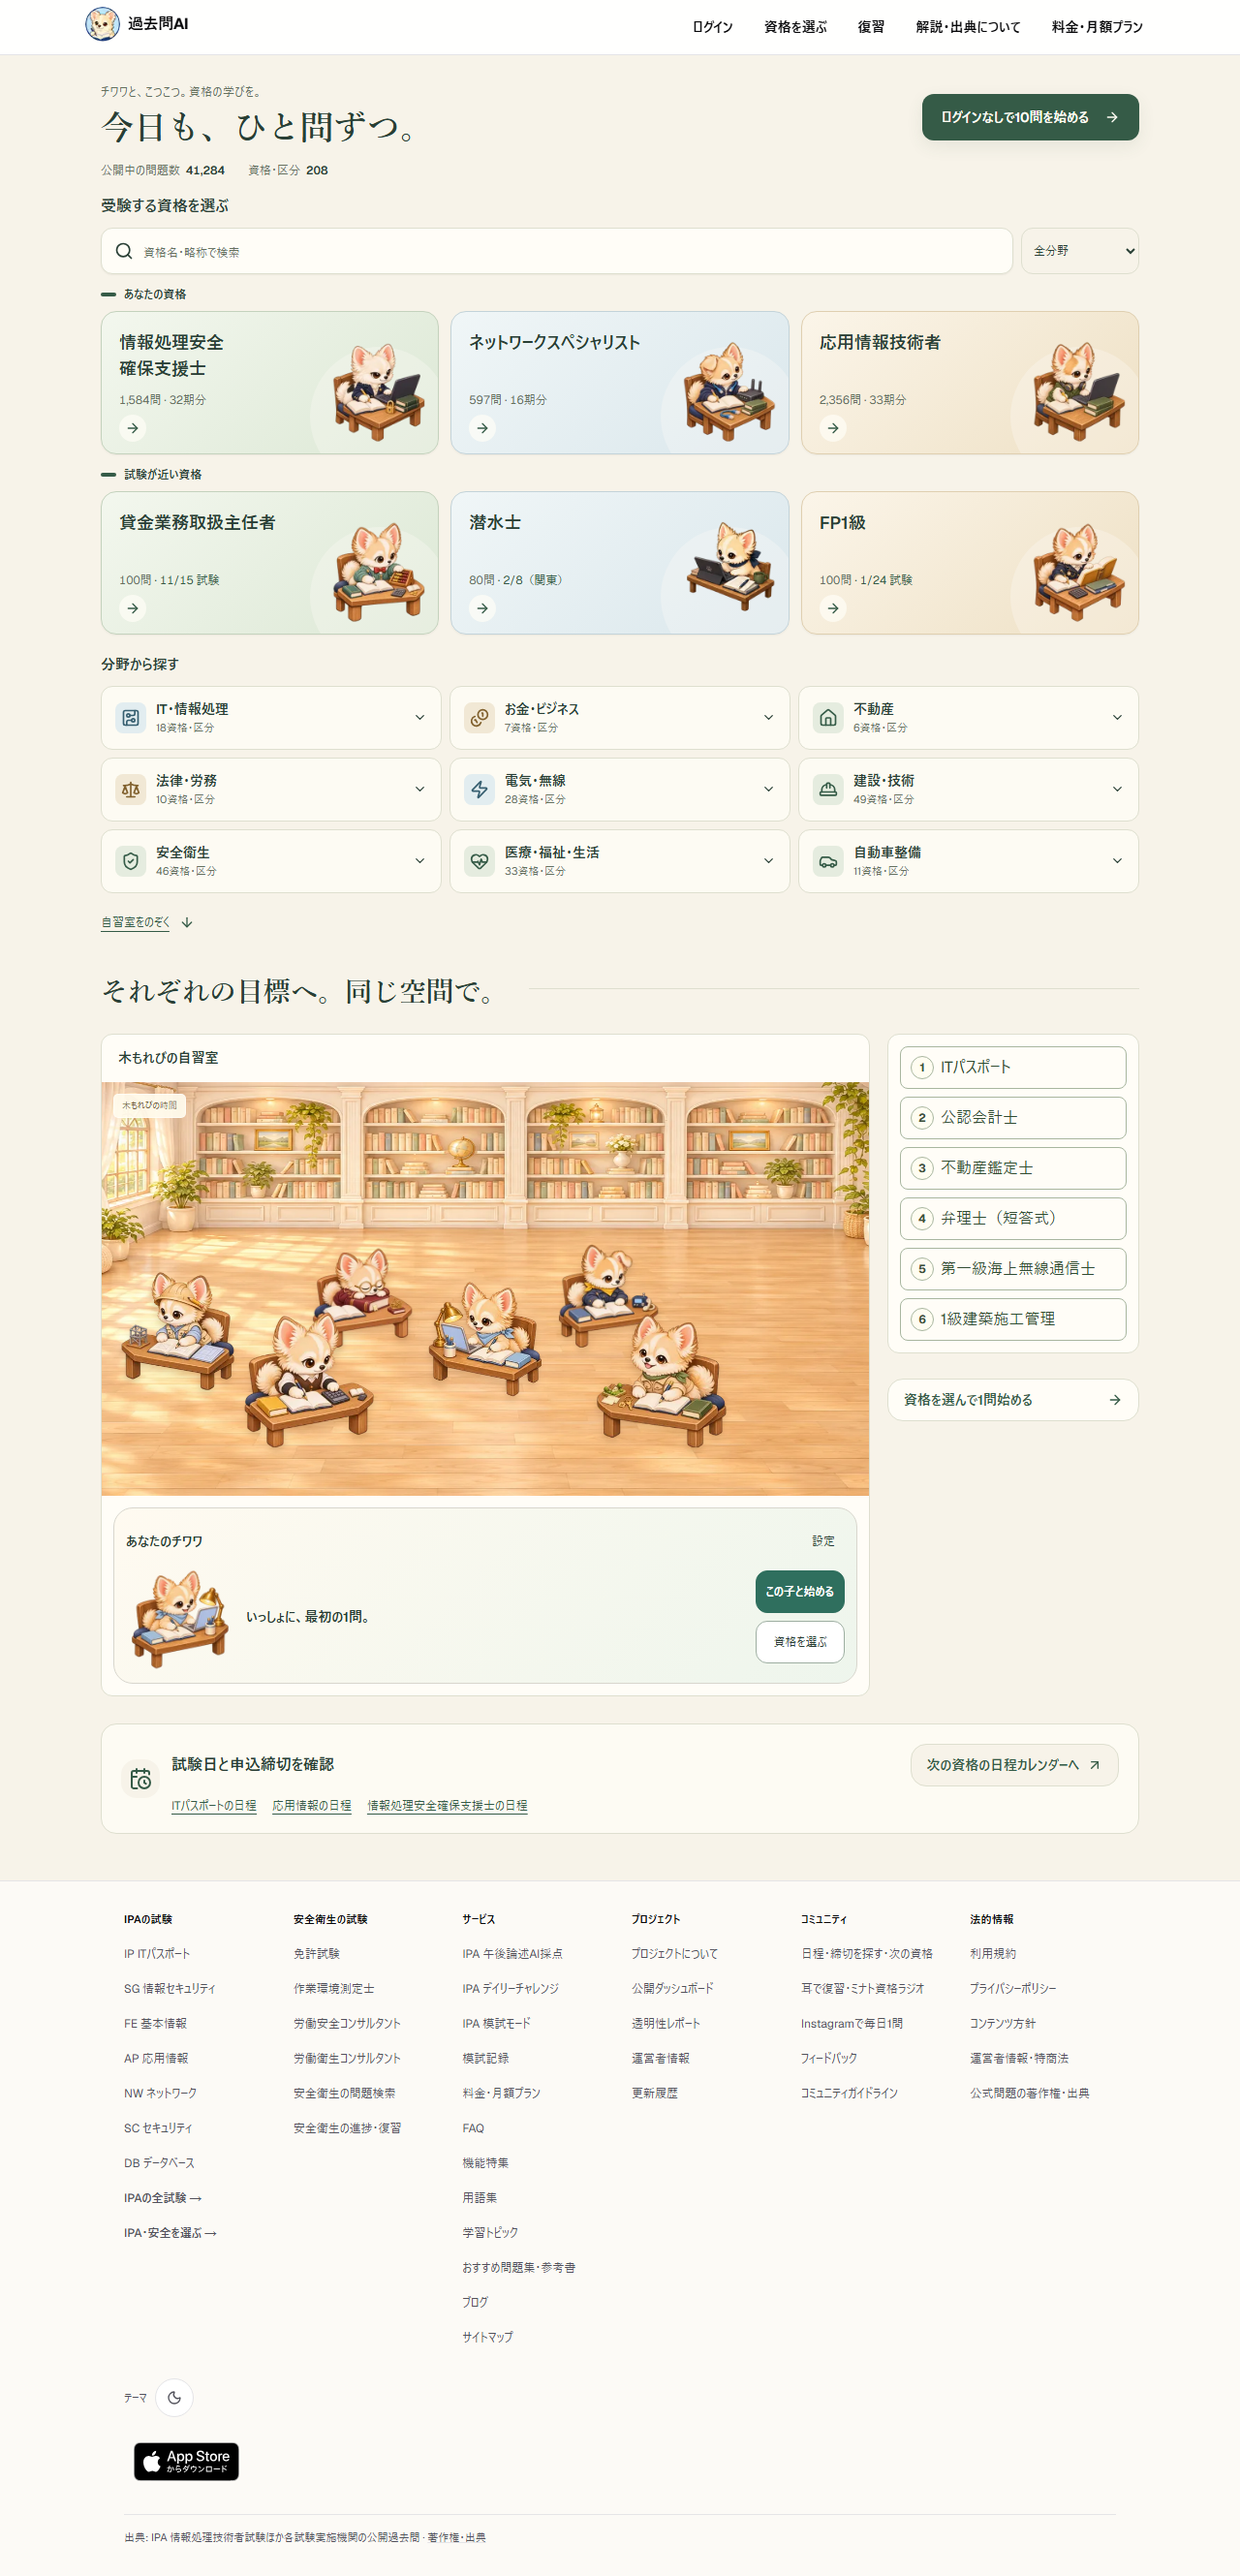
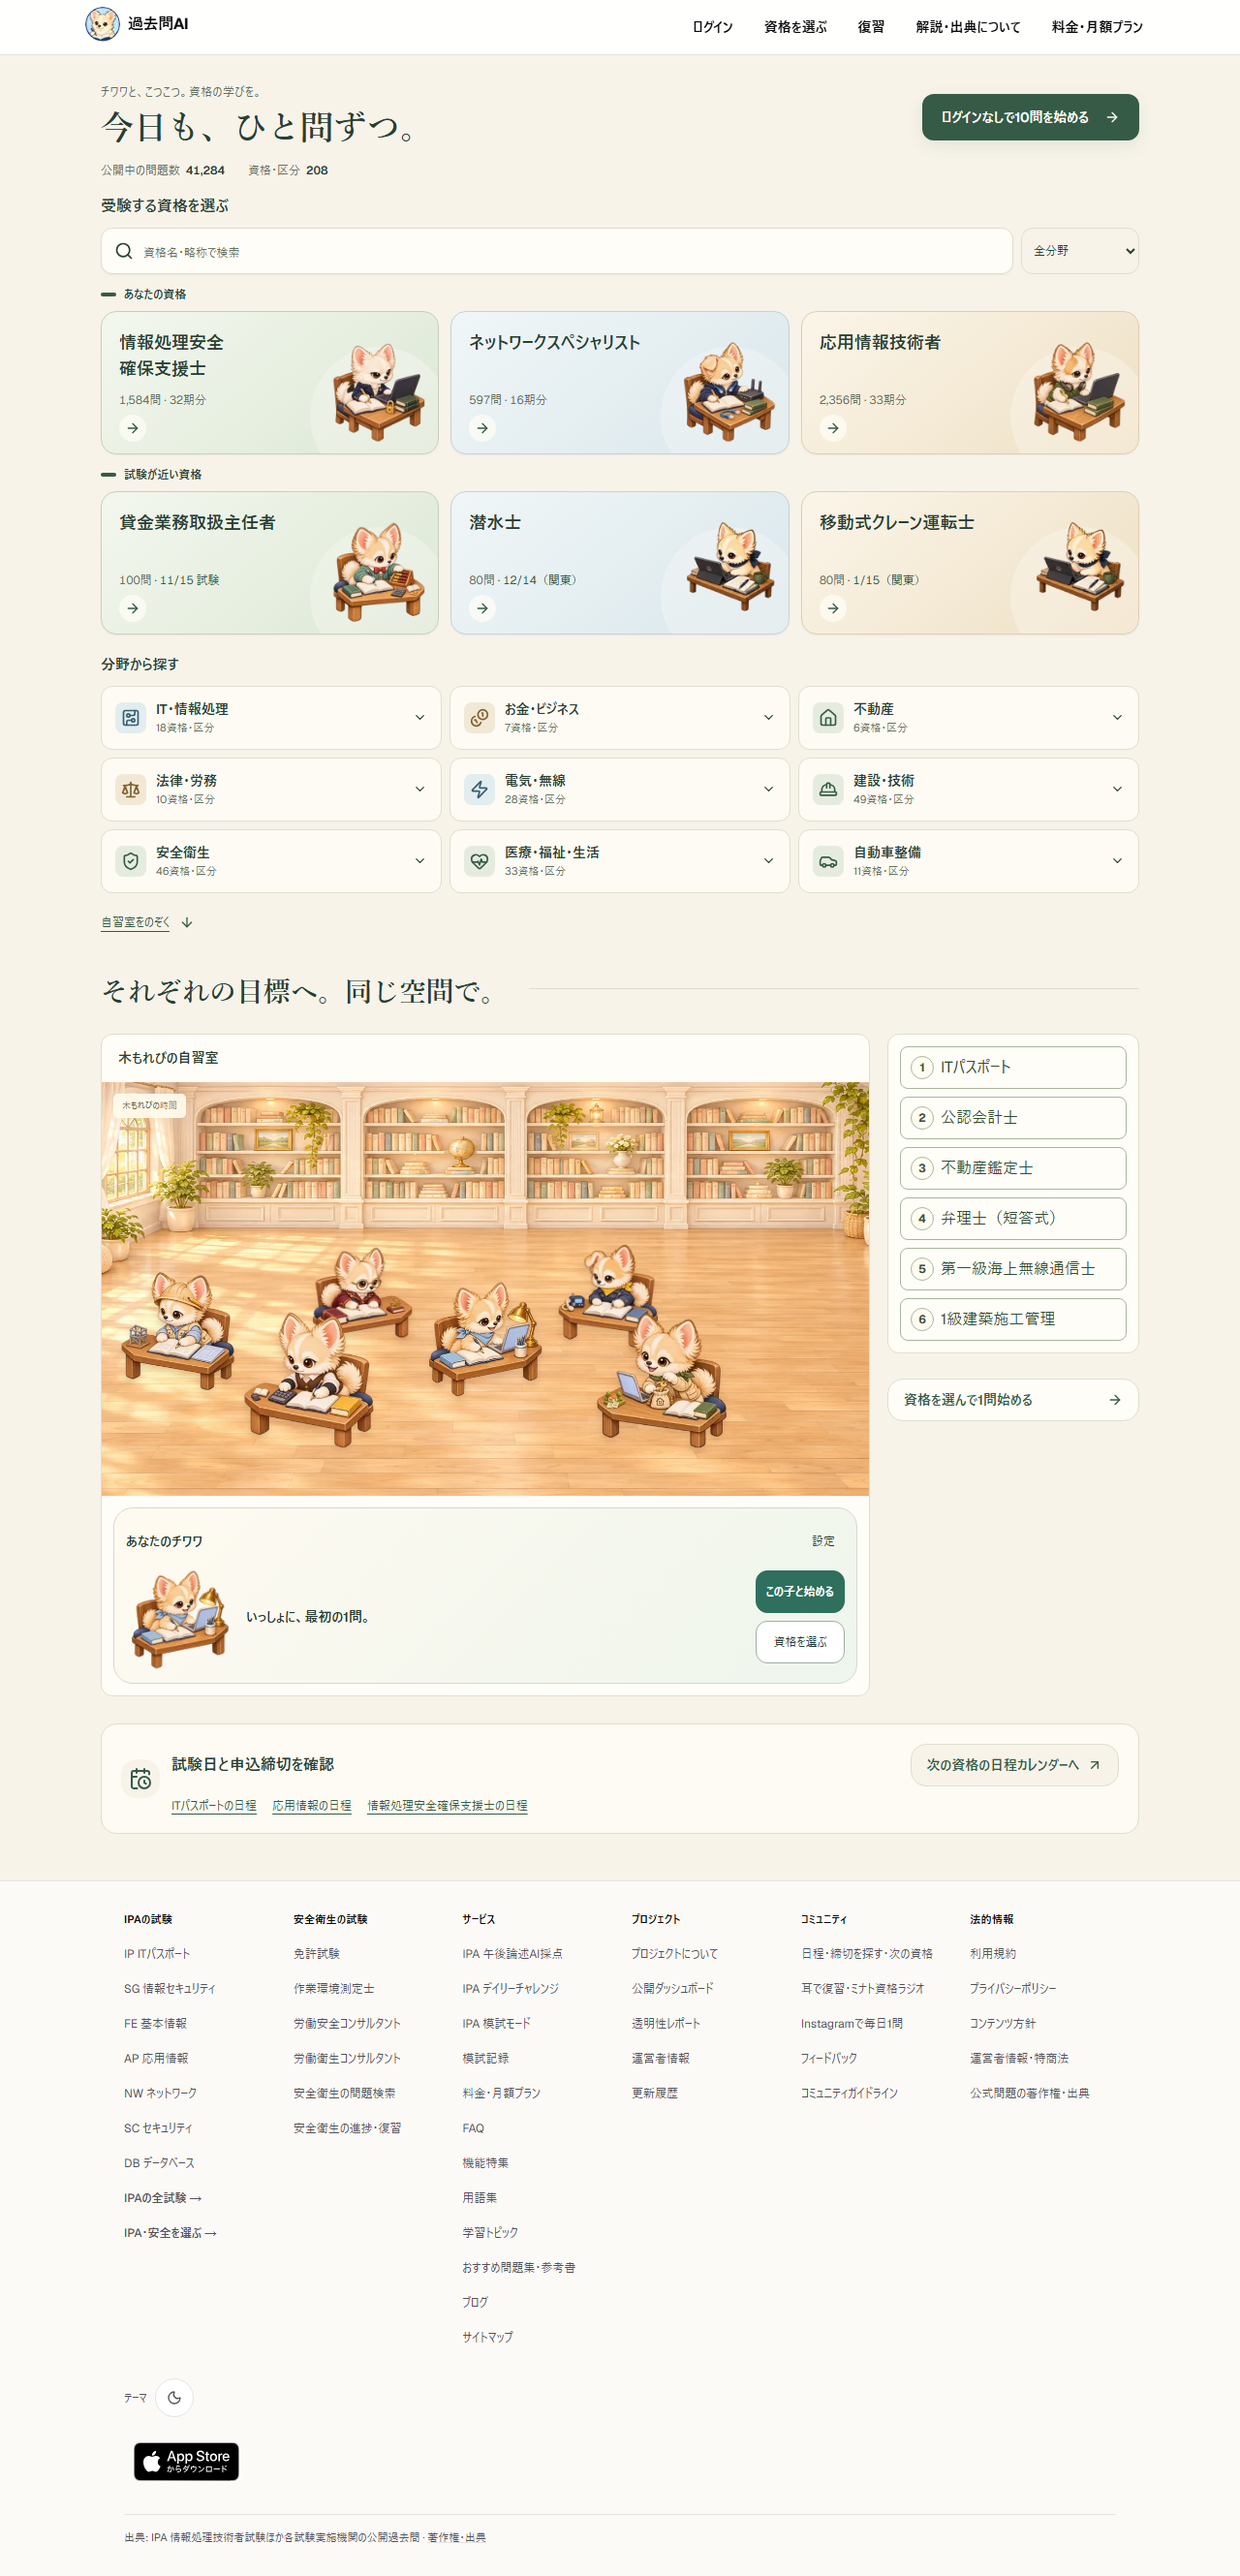
ピックアップの日程取りこぼしと履歴表示のずれを修正

diff --git a/__tests__/components/HomeFeaturedExams.test.tsx b/__tests__/components/HomeFeaturedExams.test.tsx
@@ -1,4 +1,4 @@
-import { cleanup, fireEvent, render, screen, within } from "@testing-library/react";
+import { act, cleanup, fireEvent, render, screen, within } from "@testing-library/react";
 import { renderToStaticMarkup } from "react-dom/server";
 import { afterEach, beforeEach, describe, expect, it, vi } from "vitest";
 import { HomeFeaturedExams, type QualificationCardItem } from "@/components/home/landing/HomeFeaturedExams";
@@ -33,6 +33,21 @@ describe("home personalized pickup rows", () => {
     expect(onChoose).toHaveBeenCalledOnce();
     expect(localStorage.getItem(LS_KEYS.history)).toBe(saved);
   });
+  it("removes the whole personal row when another tab clears history", () => {
+    history(["sc"]);
+    render(<HomeFeaturedExams items={items} onChoose={() => {}} />);
+    localStorage.removeItem(LS_KEYS.history);
+    fireEvent(window, new StorageEvent("storage", { key: LS_KEYS.history }));
+    expect(screen.queryByRole("region", { name: "あなたの資格" })).not.toBeInTheDocument();
+    expect(document.querySelector(".study-pickups")).toHaveAttribute("data-personal", "false");
+  });
+  it("drops expired date badges after Japanese midnight while the page stays open", () => {
+    vi.setSystemTime(new Date("2026-11-15T14:59:40Z"));
+    render(<HomeFeaturedExams items={items} onChoose={() => {}} />);
+    expect(document.querySelector('time[datetime="2026-11-15"]')).toBeInTheDocument();
+    act(() => vi.advanceTimersByTime(60_000));
+    expect(document.querySelector('time[datetime="2026-11-15"]')).not.toBeInTheDocument();
+  });
   it("tolerates denied storage and malformed stored history", () => {
     localStorage.setItem(LS_KEYS.history, "null");
     vi.spyOn(Storage.prototype, "getItem").mockImplementation(() => { throw new Error("denied"); });
@@ -51,5 +66,24 @@ describe("home personalized pickup rows", () => {
     localStorage.clear(); window.eval(code);
     expect(host.querySelector(".study-pickups")).toHaveAttribute("data-personal", "false");
     host.remove();
+  });
+  it("does not reserve a personal row for legacy reference-only answers", () => {
+    const referenceItems: QualificationCardItem[] = [...items, { key: "tsushin2", name: "電気通信", href: "/tsushin2", domainId: "construction", questionCount: 100, periodLabel: "2期分" }];
+    localStorage.setItem(LS_KEYS.history, JSON.stringify({ entries: [{ id: "tsushin2-2025-late-gakka-q21", at: 1, selected: "1", correct: true }], starredIds: [] }));
+    const host = document.createElement("div");
+    host.innerHTML = renderToStaticMarkup(<HomeFeaturedExams items={referenceItems} onChoose={() => {}} />);
+    document.body.append(host);
+    window.eval(host.querySelector("script")!.textContent!);
+    expect(host.querySelector(".study-pickups")).toHaveAttribute("data-personal", "false");
+    host.remove();
+    render(<HomeFeaturedExams items={referenceItems} onChoose={() => {}} />);
+    expect(screen.queryByRole("region", { name: "あなたの資格" })).not.toBeInTheDocument();
+  });
+  it("keeps valid personal history when a stored array contains broken entries", () => {
+    localStorage.setItem(LS_KEYS.history, JSON.stringify({ entries: [null, {}, { id: "sc-2026-q1", at: 1, selected: "1", correct: true }], starredIds: [] }));
+    const saved = localStorage.getItem(LS_KEYS.history);
+    render(<HomeFeaturedExams items={items} onChoose={() => {}} />);
+    expect(within(screen.getByRole("region", { name: "あなたの資格" })).getAllByRole("link")).toHaveLength(1);
+    expect(localStorage.getItem(LS_KEYS.history)).toBe(saved);
   });
 });

diff --git a/components/home/landing/HomeFeaturedExams.tsx b/components/home/landing/HomeFeaturedExams.tsx
@@ -7,6 +7,7 @@ import { frequentExamKeys, upcomingExamPicks, type FeaturedExamDate } from "@/li
 import { createHistoryStore } from "@/lib/storage/history";
 import { LS_KEYS } from "@/lib/storage/keys";
 import { qualificationStudyArt } from "@/lib/home/study-room";
+import { REFERENCE_ONLY_QUESTION_IDS } from "@/lib/questions/assessment";
 
 export type QualificationCardItem = HomeDirectoryItem & { domainId: HomeDomainId };
 export function QualificationCard({ item, onChoose, date }: { item: QualificationCardItem; onChoose: () => void; date?: FeaturedExamDate }) {
@@ -40,7 +41,7 @@ export function HomeFeaturedExams({ items, onChoose }: { items: readonly Qualifi
   const byKey = new Map(items.map(item => [item.key, item]));
   // The browser reserves exactly one or two rows while parsing, before paint.
   // No personal data enters HTML, URL, API, analytics or a new storage key.
-  const reservation = `try{const e=document.getElementById(${JSON.stringify(id)});const h=JSON.parse(localStorage.getItem(${JSON.stringify(LS_KEYS.history)})||"null");e.dataset.personal=String((${frequentExamKeys.toString()})(h?.entries,${JSON.stringify(keys)},${JSON.stringify(aliases)}).length>0)}catch{}`.replaceAll("<", "\\u003c");
+  const reservation = `try{const e=document.getElementById(${JSON.stringify(id)});const h=JSON.parse(localStorage.getItem(${JSON.stringify(LS_KEYS.history)})||"null");e.dataset.personal=String((${frequentExamKeys.toString()})(h?.entries,${JSON.stringify(keys)},${JSON.stringify(aliases)},${JSON.stringify([...REFERENCE_ONLY_QUESTION_IDS])}).length>0)}catch{}`.replaceAll("<", "\\u003c");
   return <>
     <div id={id} className="study-pickups" data-ready={snapshot !== null} data-personal={personal.length > 0} suppressHydrationWarning>
       {personal.length > 0 && <section aria-labelledby={`${id}-personal`}><h3 id={`${id}-personal`} className="study-results-label">あなたの資格</h3>

diff --git a/__tests__/lib/home-featured-exams.test.ts b/__tests__/lib/home-featured-exams.test.ts
@@ -1,11 +1,19 @@
 import { describe, expect, it } from "vitest";
-import { frequentExamKeys, japanDate, upcomingExamPicks, type FeaturedCalendarExam } from "@/lib/home/featured-exams";
+import { HOME_EXAM_CALENDAR, frequentExamKeys, japanDate, upcomingExamPicks, type FeaturedCalendarExam } from "@/lib/home/featured-exams";
 
 const now = new Date("2026-11-13T12:00:00+09:00");
 const keys = ["sc", "nw", "ap", "fp1", "khk-kagaku"];
 const entry = (key: string, at = 1) => ({ id: `${key}-2026-spring-am2-q1`, at });
 const row = (key: string, candidates: number, ...dates: string[]): FeaturedCalendarExam => ({ key, qualificationId: key, candidates, dates: dates.map(date => ({ date, sourceUrl: "https://example.go.jp/exams" })) });
 describe("home pickup selection", () => {
+  it("uses the next written session from the exported calendar, including reviewed note lists", () => {
+    const picks = upcomingExamPicks(HOME_EXAM_CALENDAR.map(row => row.key), [], now);
+    expect(picks.map(pick => [pick.key, pick.next?.date, pick.candidates])).toEqual([
+      ["kashikin", "2026-11-15", 9878],
+      ["lckohyo-潜水士", "2026-12-14", 6891],
+      ["lckohyo-移動式クレーン運転士", "2027-01-15", 4861],
+    ]);
+  });
   it("returns no personal cards for zero history or invalid data", () => {
     expect(frequentExamKeys([], keys)).toEqual([]);
     expect(frequentExamKeys(null, keys)).toEqual([]);

diff --git a/lib/home/featured-exams.ts b/lib/home/featured-exams.ts
@@ -12,13 +12,13 @@ export const HOME_EXAM_CALENDAR: readonly FeaturedCalendarExam[] = calendar.exam
 
 /** Attempts, including reattempts; recency breaks ties. Self-contained so the
  * same reader can reserve the correct height before the first paint. */
-export function frequentExamKeys(entries: unknown, keys: readonly string[], aliases: Readonly<Record<string, string>> = {}): string[] {
+export function frequentExamKeys(entries: unknown, keys: readonly string[], aliases: Readonly<Record<string, string>> = {}, excludedIds: readonly string[] = []): string[] {
   if (!Array.isArray(entries)) return [];
   const longestFirst = [...keys].sort((a, b) => b.length - a.length);
   const aliasPrefixes = Object.keys(aliases).sort((a, b) => b.length - a.length);
   const counts = new Map<string, { count: number; latest: number }>();
   for (const entry of entries) {
-    if (!entry || typeof entry.id !== "string" || !Number.isFinite(entry.at)) continue;
+    if (!entry || typeof entry.id !== "string" || !Number.isFinite(entry.at) || excludedIds.includes(entry.id)) continue;
     const automotive = /^jidosha-20\d{2}-(?:first|second)-(.+)-q\d+$/.exec(entry.id);
     const alias = aliasPrefixes.find(prefix => entry.id.startsWith(prefix));
     const key = alias ? aliases[alias] : automotive ? keys.find(key => key === `jidosha-${automotive[1]}`)

diff --git a/app/home-study.css b/app/home-study.css
@@ -252,7 +252,7 @@ body:has(.study-home) .mobile-bottom-nav { --primary:#355b47; border-color:#dedf
   .study-finder-home .study-search-row { gap:6px; }
   .study-finder-home .study-search { padding:0 10px; gap:6px; }
   .study-finder-home .study-search input::placeholder { font-size:12px; }
-  .study-finder-home select { min-width:78px; max-width:100px; font-size:11px; }
+  .study-finder-home select { width:100px; flex:0 0 100px; font-size:11px; }
   .study-featured-results { gap:7px; }
   .study-featured-results .study-qualification { min-height:144px; padding:9px 8px; }
   .study-featured-results .study-qualification-name { min-height:2.9em; font-size:13px; line-height:1.45; text-wrap:balance; }

diff --git a/lib/storage/history.ts b/lib/storage/history.ts
@@ -69,7 +69,7 @@ export function createHistoryStore(): HistoryStore {
   // Public assessment reads are projected; mutations always start from raw data.
   const snapshot = (): HistoryData => {
     const raw = readRaw();
-    return { entries: raw.entries.filter(entry => !isReferenceOnlyQuestionId(entry.id)),
+    return { entries: raw.entries.filter(entry => entry && typeof entry.id === "string" && !isReferenceOnlyQuestionId(entry.id)),
       starredIds: raw.starredIds.filter(id => !isReferenceOnlyQuestionId(id)) };
   };
   return {

diff --git a/lib/questions/assessment.ts b/lib/questions/assessment.ts
@@ -1,7 +1,7 @@
 /** These exact originals are reference material, including legacy records that
  * carry no assessment metadata. Never infer this status from an exam or prefix.
  */
-const REFERENCE_ONLY_QUESTION_IDS = new Set([
+export const REFERENCE_ONLY_QUESTION_IDS: ReadonlySet<string> = new Set([
   "tsushin2-2025-late-gakka-q21",
   "kenchiku-setsubishi-2026-annual-am2-q18",
   "radio21-amateur1-2026-05-kogaku-q19",
